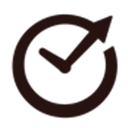
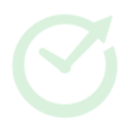
Switch to the mint/sage/deep-green palette
Ground is now the two pale greens (#daf1de / #8eb69b alternating) and
blocks are the four dark greens, inverting the previous light-block-on-
dark-ground arrangement. Text tiers flip with it: on-ground text is the
darkest green, on-surface text runs light.

Also fixes six palette variables that were self-referencing
(--accent-wash:var(--accent-wash)) after last commit's find/replace hit
their own declarations, which had silently broken every hover wash and
the outline-button borders.

Tab icons recolored dark->mint since the chips are dark now, and the
time/date inputs switched to color-scheme:dark to match.

Changed region(s): [[0.0625, 0.0938, 0.9375, 0.9375]]

diff --git a/index.html b/index.html
@@ -11,14 +11,14 @@
 <meta name="apple-mobile-web-app-status-bar-style" content="default">
 <meta name="apple-mobile-web-app-title" content="Life System">
 <meta name="mobile-web-app-capable" content="yes">
-<meta name="theme-color" content="#1c3934">
+<meta name="theme-color" content="#daf1de">
 <script src="https://cdn.jsdelivr.net/npm/html5-qrcode@2.3.8/html5-qrcode.min.js"></script>
 <script>
 // meta no-cache tags aren't reliably honored by every engine (confirmed in testing) —
 // this is the real fallback: fetch the version marker with cache explicitly disabled
 // (which IS reliably honored), and self-reload once if this page is stale.
 (function(){
-  var PAGE_VERSION='2026-08-02T12:16:26Z';
+  var PAGE_VERSION='2026-08-02T12:36:25Z';
   try{
     if(sessionStorage.getItem('lifesys_reloaded_for')===PAGE_VERSION)return;
     fetch('version.txt',{cache:'no-store'}).then(function(r){return r.text();}).then(function(v){
@@ -33,7 +33,7 @@
 </script>
 </head>
 <body>
-<div id="app"><div style="font-family:monospace;color:#f9edf0;padding:40px 4px">Loading…</div></div>
+<div id="app"><div style="font-family:monospace;color:#051f20;padding:40px 4px">Loading…</div></div>
 <style>
 /* ============================================================
    PALETTE — every color in the app is one of these roles.
@@ -43,37 +43,39 @@
    variables, so it must be updated by hand to match --ground.
    ============================================================ */
 :root{
-  /* ground: the page background, and text/borders that sit directly on it (no card) */
-  --ground:#1c3934;              /* emerald */
-  --ground-alt:#261311;          /* espresso — alternates with --ground band to band */
-  --ground-alt-wash:var(--ground-alt-wash);
-  --on-ground:#f9edf0;           /* blush text on either ground color */
-  --on-ground-outline:var(--on-ground-outline);
-  --on-ground-wash:var(--on-ground-wash);
-  --on-ground-negative:var(--on-ground-negative);  /* --negative is too dark to read on the ground; lighter stand-in */
-  --on-ground-negative-wash:var(--on-ground-negative-wash);
+  /* ground: the page background, and text/borders that sit directly on it (no card).
+     The ground is LIGHT and blocks are DARK, so on-ground text is the darkest green. */
+  --ground:#daf1de;              /* mint */
+  --ground-alt:#8eb69b;          /* sage — alternates with --ground band to band */
+  --on-ground:#051f20;           /* darkest green — text on either ground color */
+  --on-ground-outline:rgba(5,31,32,.35);
+  --on-ground-wash:rgba(5,31,32,.08);
+  --on-ground-negative:#8f2f22;  /* --negative is too light to read on the pale ground; darker stand-in */
+  --on-ground-negative-wash:rgba(143,47,34,.12);
 
   /* surface: card/block backgrounds, and their text tiers */
-  --surface:#f9edf0;             /* blush — primary block fill */
-  --surface-2:#e6c8b7;           /* champagne — nested fill inside a block */
-  --on-surface:#261311;          /* espresso — primary text on a block */
-  --on-surface-dim:#4a382f;      /* secondary text on a block */
-  --on-surface-faint:#7a6154;    /* tertiary/muted text on a block */
-  --outline:#d3ac93;             /* border for fill-less outline buttons */
-  --divider:#e3cdbf;             /* structural hairlines: grid lines, row separators */
+  --surface:#163832;             /* deep green — primary block fill */
+  --surface-2:#0b2b26;           /* darker — nested fill inside a block */
+  --surface-wash:rgba(218,241,222,.16);  /* translucent light fill on a block (e.g. XP bar track) */
+  --on-surface:#daf1de;          /* mint — primary text on a block */
+  --on-surface-dim:#b3d4bd;      /* secondary text on a block */
+  --on-surface-faint:#8eb69b;    /* tertiary/muted text on a block */
+  --outline:#235347;             /* border for fill-less outline buttons */
+  --divider:#235347;             /* structural hairlines: grid lines, row separators */
 
   /* accent: interactive/brand colors — accent is the default, 2 and 3 are alternates
-     (per-goal color, macro donut slices) */
-  --accent:#1c3934;
-  --accent-2:#ba6a36;
-  --accent-3:#c3955b;
-  --accent-wash:var(--accent-wash);
-  --on-accent:#f9edf0;           /* text/icon on a filled accent background */
+     (per-goal color, macro donut slices). Accents sit on dark blocks, so they run light. */
+  --accent:#8eb69b;
+  --accent-2:#daf1de;
+  --accent-3:#4e8f79;
+  --accent-wash:rgba(142,182,155,.14);
+  --on-accent:#051f20;           /* text/icon on a filled accent background */
 
-  /* status */
-  --positive:#2f6b5c;
-  --negative:#8f2f22;
-  --negative-wash:var(--negative-wash);
+  /* status — derived, not from the source palette: a six-tone monochrome can't
+     signal good/bad on its own, and danger in particular has to read as danger. */
+  --positive:#7fd1a5;
+  --negative:#e0796b;
+  --negative-wash:rgba(224,121,107,.14);
 
   --mono:ui-monospace,"SF Mono",Menlo,Consolas,monospace;
   --sans:system-ui,-apple-system,"Segoe UI",Roboto,sans-serif;
@@ -93,7 +95,8 @@ html,body{background:var(--ground);margin:0;overflow-x:hidden}
 #app p{margin:0}
 button{font-family:var(--sans);cursor:pointer;border:none;background:none;color:inherit}
 input,textarea,select{background:var(--surface-2);border:1px solid var(--outline);color:var(--on-surface);border-radius:12px;padding:8px 10px;font-family:var(--sans);font-size:14px;width:100%}
-input[type=time],input[type=date]{color-scheme:light;font-family:var(--mono);font-size:13px}
+input[type=time],input[type=date]{color-scheme:dark;font-family:var(--mono);font-size:13px}
+input::placeholder,textarea::placeholder{color:var(--on-surface-faint);opacity:1}
 input[type=checkbox]{width:auto;accent-color:var(--ac,var(--accent))}
 textarea{resize:vertical;min-height:52px}
 .brand{font-family:var(--mono);font-size:11px;letter-spacing:.2em;text-transform:uppercase;color:var(--on-surface-dim);padding:4px 2px 10px}
@@ -320,7 +323,7 @@ textarea{resize:vertical;min-height:52px}
 .trksum{border-radius:20px;background:var(--surface-2);padding:16px;margin-top:14px}
 .lvlrow{display:flex;align-items:center;gap:10px;flex-wrap:wrap}
 .lvltag{font-family:var(--mono);font-size:12px;color:var(--on-surface);border-radius:999px;padding:4px 10px;background:var(--surface)}
-.xpbar{flex:1;min-width:120px;height:8px;border-radius:999px;background:var(--ground-alt-wash);overflow:hidden}
+.xpbar{flex:1;min-width:120px;height:8px;border-radius:999px;background:var(--surface-wash);overflow:hidden}
 .xpfill{height:100%;background:var(--accent)}
 .xptxt{font-family:var(--mono);font-size:11px;color:var(--on-surface-faint)}
 .beststreak{margin-top:10px;font-size:13px;color:var(--on-surface-dim)}
@@ -472,8 +475,8 @@ textarea{resize:vertical;min-height:52px}
 .pddate{color:var(--on-surface);min-width:52px}
 .pdn{margin-left:auto;color:var(--on-surface-faint)}
 @media(max-width:680px){.fsrow{grid-template-columns:1fr 46px 40px 40px 40px 18px;gap:4px;font-size:11px;padding:7px 8px}.fsname{font-size:12px}}
-/* Blocks are blush/champagne so their text stays --on-surface (espresso tiers).
-   These elements sit straight on the emerald/espresso ground, so they go light. */
+/* Blocks are dark green, so their text is --on-surface (the light tiers). These
+   elements sit straight on the pale mint/sage ground instead, so they go dark. */
 .brand,.hrow h1,.hrow .addbtn,.sub2,.ph h3,.ph .pc,.band .tempty,.band .tdempty,.tdsec,.dtitle,
 .crumb,.crumb .bk,.crumb .cs,.crumb .cg,.dnote label,.subdel,
 .sysfoot,.sysfoot .undo,.sysfoot .exp,.sysfoot .imp,.sysfoot .rst,
@@ -484,6 +487,8 @@ textarea{resize:vertical;min-height:52px}
 .stepadd button:hover,.appadd button:hover{border-color:var(--on-ground);color:var(--on-ground);background:var(--on-ground-wash)}
 .sysfoot .undo:hover,.sysfoot .exp:hover,.sysfoot .imp:hover{border-color:var(--on-ground);color:var(--on-ground);background:var(--on-ground-wash)}
 .tdsec.od,.sysfoot .rst:hover,.sysfoot .rst.arm{color:var(--on-ground-negative)}
+/* --accent-2 is the mint that the ground itself uses, so priorities lean on weight */
+.tdsec.pri{color:var(--on-ground);font-weight:700}
 .sysfoot .rst:hover,.sysfoot .rst.arm{border-color:var(--on-ground-negative);background:var(--on-ground-negative-wash)}
 .sysfoot .undo.dis:hover{border-color:var(--on-ground-outline);color:var(--on-ground)}
 /* ...but an empty-state line inside a card is on blush, so it stays dark */
